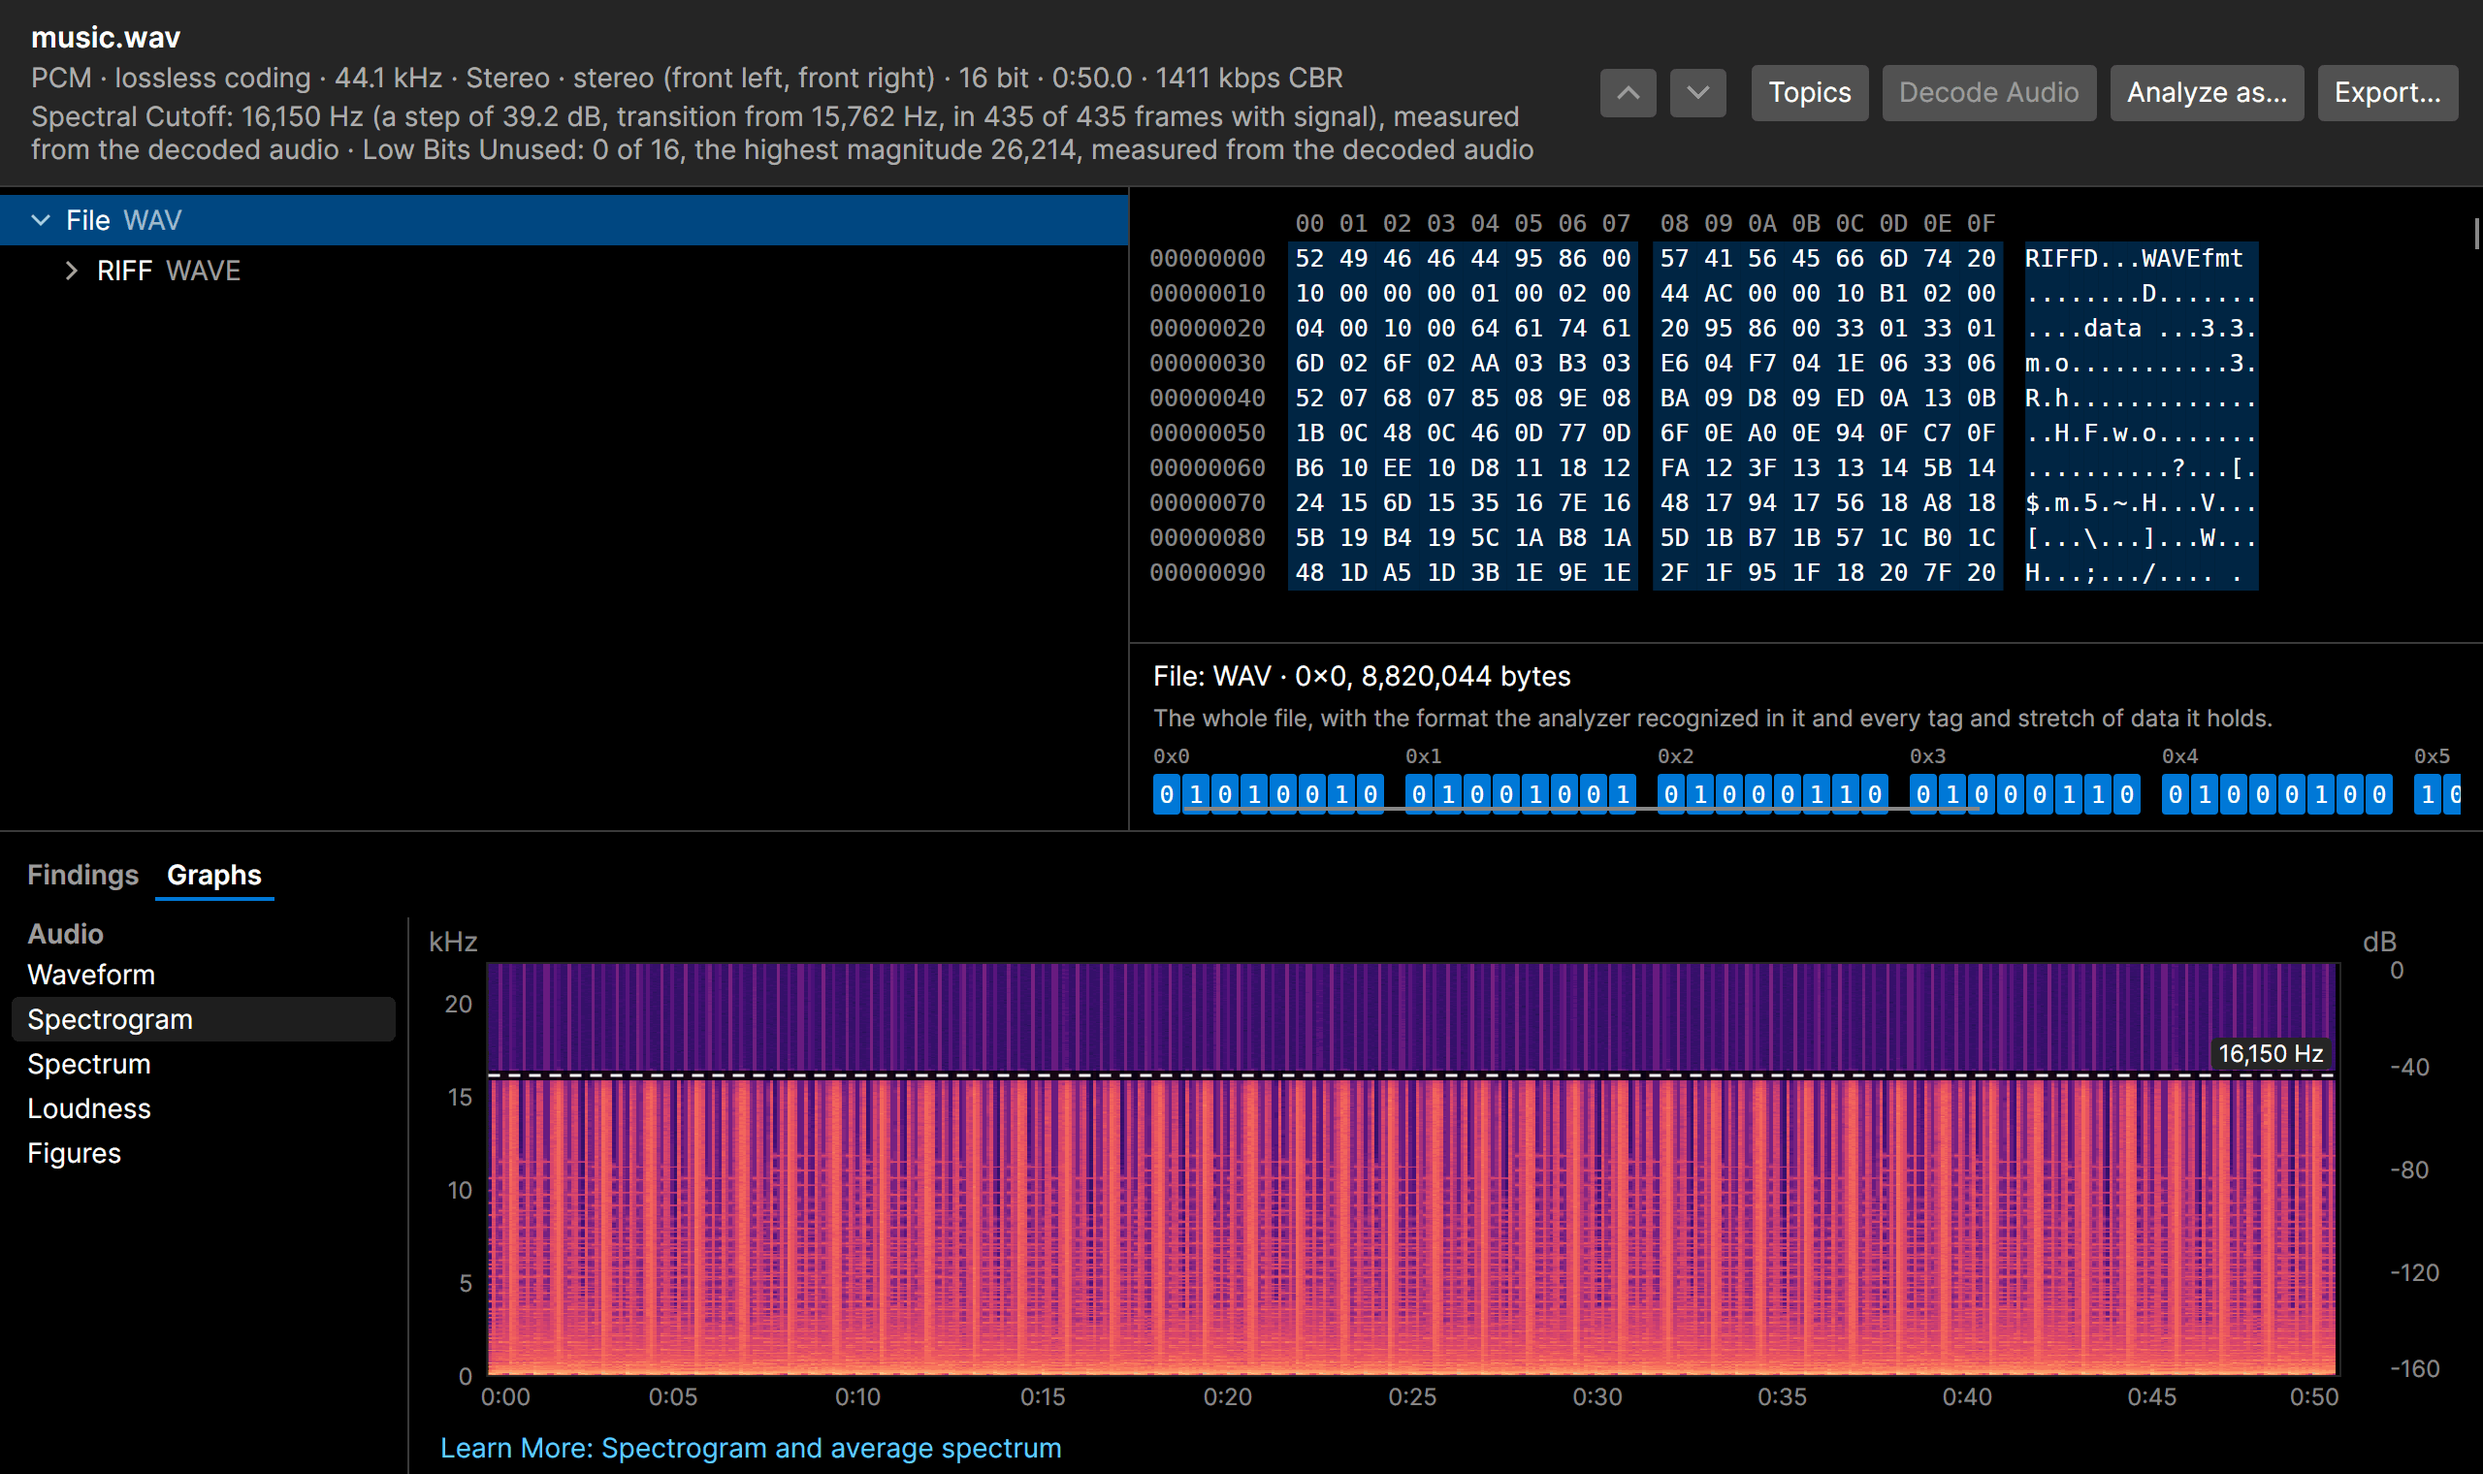
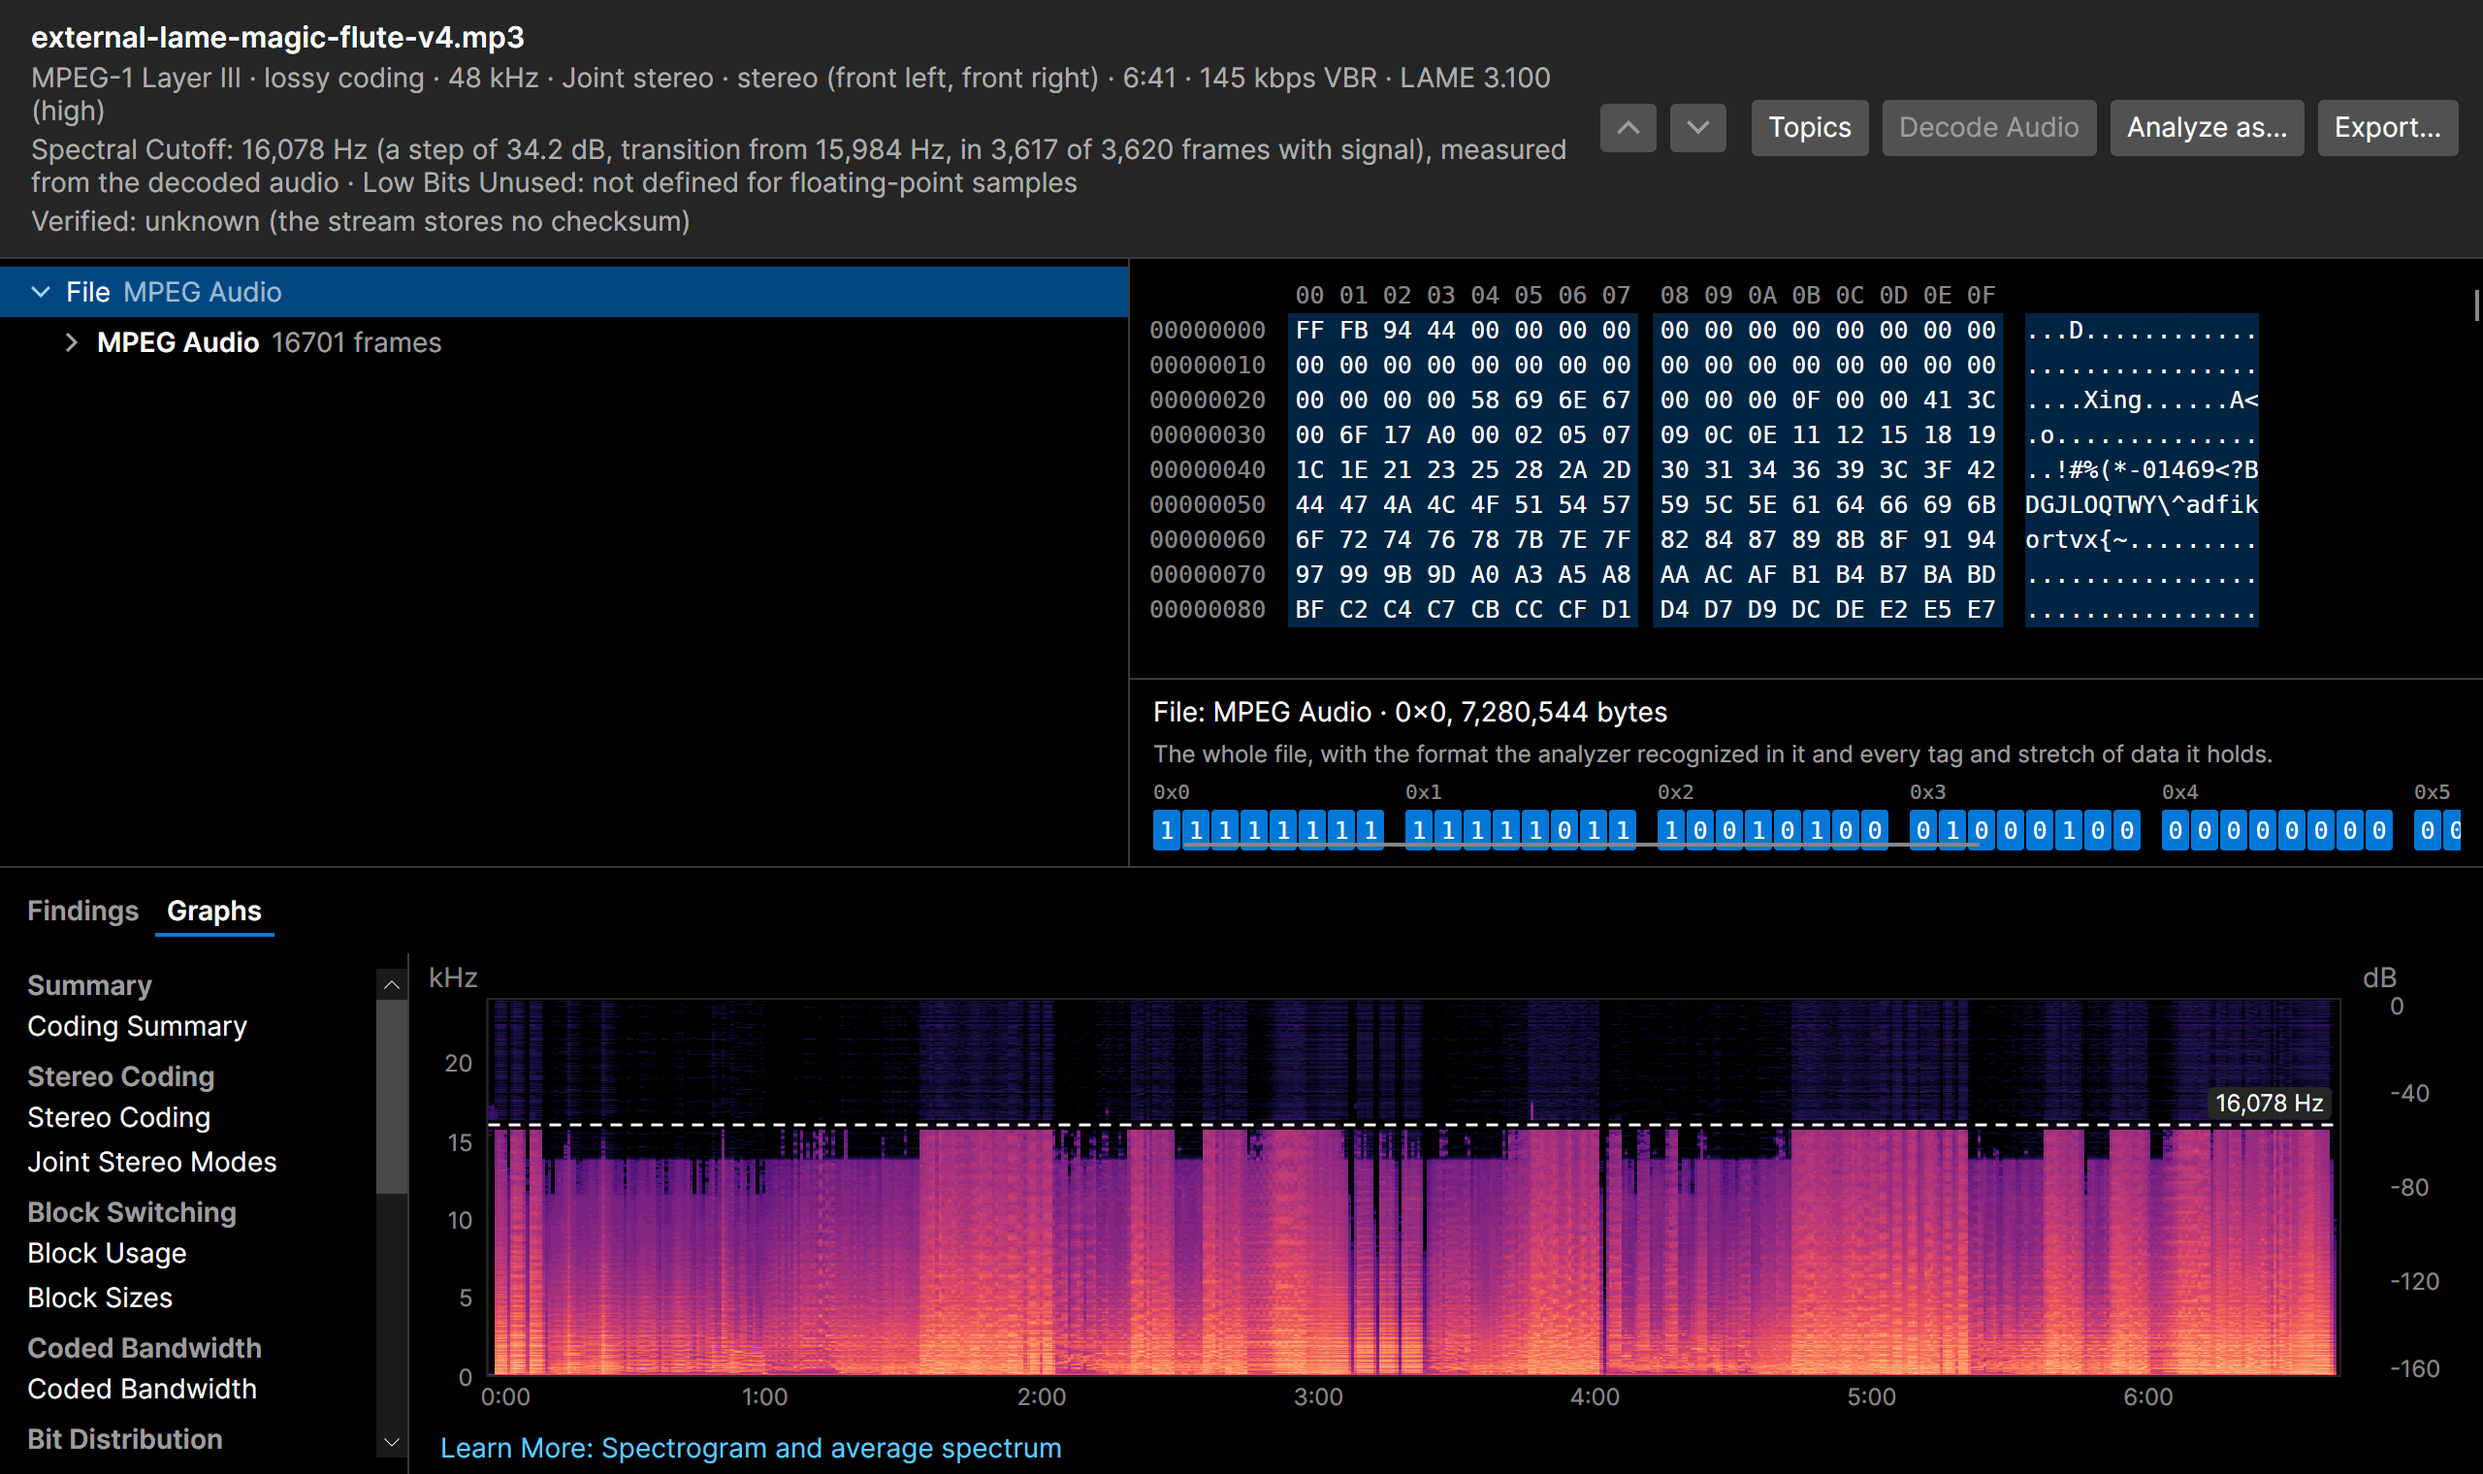
Re-render README screenshots from the Magic Flute fixture; Frame Map of its bitrate
Claude-Session: https://claude.ai/code/session_01NFnoiwUtAzMrjCXYBDYH3c

diff --git a/tests/Encspect.Gui.Tests/ReadmeScreenshotTests.cs b/tests/Encspect.Gui.Tests/ReadmeScreenshotTests.cs
@@ -111,28 +111,19 @@ public class ReadmeScreenshotTests
         window.Close();
     }
 
-    // Sixty seconds of the block switching of a joint stereo file with its LAME tag, which is the same two seconds thirty times.
+    // The bitrate of a whole recording, Mozart's Magic Flute overture (the music folder's fixture), at one square per frame. Its block types hardly change (99.8% long blocks), its bitrate follows the music.
     private static void FrameMap(string variant)
     {
-        using var folder = new TempFolder();
-        byte[] one = File.ReadAllBytes(Fixtures.Mpeg("external-lame3101-vbr.mp3"));
-        using (FileStream output = File.Create(folder["minute.mp3"]))
-        {
-            for (int copy = 0; copy < 30; copy++)
-            {
-                output.Write(one);
-            }
-        }
-
-        DetailWindow window = Open(folder["minute.mp3"], decode: false, 760);
-        AudioPanelTests.Choose(window, "Block Usage", GraphForm.Map);
+        DetailWindow window = Open(MagicFlute, decode: false, 760);
+        AudioPanelTests.Choose(window, "Bitrate", GraphForm.Map);
         var map = (FrameMapGraph)window.Graph.Graph!;
-        Assert.True(map.Count > 2000);
-        int shortFrame = Enumerable.Range(map.Count / 2, map.Count / 2).First(s => Enumerable.Range(0, 4).Any(v => map.CategorySeries![map.UnitOf(s), v] == 2));
-        FitTree(window, () => window.Model.SelectFrameAt(map.OffsetOf(shortFrame)));
+        Assert.True(map.Count > 10000);
+        FitTree(window, () => window.Model.SelectFrameAt(map.OffsetOf(map.Count * 3 / 5)));
         Save(window, $"readme-frame-map-{variant}.png");
         window.Close();
     }
+
+    private static string MagicFlute => Fixtures.Mpeg("music/external-lame-magic-flute-v4.mp3");
 
     // The tree pane is half the window's body; a height that holds a whole number of rows keeps a row from being cut at the pane's edge.
     private static void FitTree(DetailWindow window, Action select)
@@ -161,10 +152,7 @@ public class ReadmeScreenshotTests
 
     private static void Audio(string variant)
     {
-        using var folder = new TempFolder();
-        // A stream of more than 47 seconds has merged columns, so its spectrogram has no strip of columns without data at the end.
-        File.WriteAllBytes(folder["music.wav"], MusicWav.Build(Environment.GetEnvironmentVariable("ENCSPECT_SCREENSHOTS") is { Length: > 0 } ? 50 : 6));
-        DetailWindow window = Open(folder["music.wav"], decode: true, 760);
+        DetailWindow window = Open(MagicFlute, decode: true, 760);
         var spectrogram = (SpectrogramGraph)window.Graph.Graph!;
         Assert.NotNull(spectrogram.Cutoff);
         Save(window, $"readme-spectrogram-{variant}.png");

diff --git a/docs/development.md b/docs/development.md
@@ -15,9 +15,15 @@ The rules every change follows are in [CLAUDE.md](../CLAUDE.md); the architectur
   - `Formats/<Format>/` and `Tags/<Tag>/`: the tests of one parser, named like its `src/Encspect.Formats.*` or `src/Encspect.Tags.*` project; `Tags/` holds the tests across tags.
   - `Support/`: the shared fixtures access, builders and helpers.
   - `RepositoryRootTests` holds the tracked entries of the repository root to a list, so a stray folder fails the build; a new entry there is a decision made in that file.
-- `tests/fixtures`: one folder per format (`aac`, `mpeg-audio`, `wav`, ...), with the topic folders inside it (`mpeg-audio/layer2`, `mpeg-audio/layer3`, `mpeg-audio/vbr`, `mpeg-audio/stats`, `aac/adts`, `aac/apple`, `tags/collisions`). `measurement` and `fuzz` are the folders that cover several formats.
+- `tests/fixtures`: one folder per format (`aac`, `mpeg-audio`, `wav`, ...), with the topic folders inside it (`mpeg-audio/layer2`, `mpeg-audio/layer3`, `mpeg-audio/vbr`, `mpeg-audio/stats`, `mpeg-audio/music`, `aac/adts`, `aac/apple`, `tags/collisions`). `measurement` and `fuzz` are the folders that cover several formats.
 - `tests/Encspect.Gui.Tests`: the GUI, on Avalonia's headless platform without a display. These run on xUnit v3, which the headless test support needs. Set `ENCSPECT_SCREENSHOTS` to an absolute folder (a relative one resolves against the test host's directory under `bin`) to have them save screenshots of both windows and of the graphs, in light and dark mode, and of each view of the category charts. Each PNG is encoded with a 60-second bound and appears under its name only when complete, so a stalled save fails the test naming the file instead of hanging the run and leaving an empty PNG. MPEG audio produces category series; the tests for the chart's cases that it does not (AAC's window sequences, a series of many categories) run on a parser that wraps the MPEG one and adds test-only category series (`CategoryTestData`).
-- **README images:** `ReadmeScreenshotTests` renders the six images of the README's Screenshots section in light and dark mode at a scale of 2: the main window on a staged home folder (the `roots` of `MainViewModel`), the detail window of `mpeg-audio/external-blade080-stereo.mp3`, the Frame Map of `mpeg-audio/external-lame3101-vbr.mp3` (LAME 3.101 variable bitrate, joint stereo, with its LAME tag, 2 seconds) repeated thirty times, the Audio panels of a 50-second WAV it synthesizes (set `ENCSPECT_SCREENSHOTS`; otherwise 6 seconds) and the Coding Summary. Run it with `ENCSPECT_SCREENSHOTS` set to an absolute folder, copy the `readme-*.png` files from there to `docs/images/` and re-save each with Pillow (`optimize=True`; `quantize(256, method=FASTOCTREE, dither=NONE)` for those over about 380 KB) to keep it under about 400 KB. Nothing compares the committed images with the code: re-render them when a GUI or decoder change shows in a captured view, and before every release.
+- **README images:** `ReadmeScreenshotTests` renders the six images of the README's Screenshots section in light and dark mode at a scale of 2: the main window on a staged home folder (the `roots` of `MainViewModel`), the detail window of `mpeg-audio/external-blade080-stereo.mp3`, the Frame Map of its bitrate (its block types hardly change: 99.8% long blocks) and the Audio panels (spectrogram and waveform, from its decode) of `mpeg-audio/music/external-lame-magic-flute-v4.mp3` (below) and the Coding Summary of `mpeg-audio/external-lame-joint-music.mp3`. Run it with `ENCSPECT_SCREENSHOTS` set to an absolute folder, copy the `readme-*.png` files from there to `docs/images/` and re-save each with Pillow (`optimize=True`; `quantize(256, method=FASTOCTREE, dither=NONE)` for those over about 380 KB) to keep it under about 400 KB. Nothing compares the committed images with the code: re-render them when a GUI or decoder change shows in a captured view, and before every release.
+- **The music fixture** (`tests/fixtures/mpeg-audio/music/external-lame-magic-flute-v4.mp3`, 7.3 MB, 400.8 s, 48 kHz) is a real recording, for the README's and website's screenshots, which show how a file with a lot of variety reads:
[1 lines of base64/hex data omitted]
+  - **How it is made:** `make_external_mpeg_fixtures.py` through `musopen_tool.py`, which pins the FLAC by SHA-256 (`downloads.py`, cache only, never the working tree; `check_sources.py` checks its address) and converts it to 16-bit PCM with ffmpeg without dither. LAME 3.100 `-V 4 -m j` encodes the whole recording and writes its tag.
+  - **Goldens:** the manifest leaves out the per-frame `minimp3_side_info` (megabytes for a recording of minutes; the findings derived from it stay) and names `golden_hides: ["frames"]` for the report golden; the decode and measure goldens are as for every other fixture.
+  - **Damaged input:** `CorruptFiles.NotMutated` lists `mpeg-audio/music/`: the smaller LAME fixtures cover the same coding under damage.
+  - **The Audio panels** of the screenshots come from this file's decode, not a synthesized WAV: a real recording has the variance (loud and quiet passages, sharp attacks, LAME's lowpass in the spectrogram) a tone mix lacks.
 - **GUI backends on Linux:** CI runs the published GUI's `--self-check` under a headless Weston (`weston --backend=headless --renderer=pixman --socket=...`) and under `xvfb-run`, and checks the `Windowing backend:` line. It covers X11 as the default with both displays present, Wayland only with `ENCSPECT_GUI_BACKEND=wayland`, a compositor alone not starting Wayland, and a forced backend without its display exiting with code 1.
   - Locally: `apt-get install weston xvfb`, publish the GUI for your RID, then run the step from `.github/workflows/ci.yml`.
   - The step does not run as written: replace `${{ matrix.rid }}` with the RID (`linux-x64`) and export `RUNNER_TEMP` as a short absolute path such as `/tmp/ci`, created beforehand. Unset, `RUNNER_TEMP` makes the socket directory `/runtime`; a long one exceeds the 108-byte limit of a Unix socket path.
@@ -709,7 +715,7 @@ Every format has three kinds of fixture:
 | Format | Fixtures | Scripts | Checked against |
 |---|---|---|---|
 | Tags | `tests/fixtures/tags` | `make_tag_fixtures.py`; `make_external_tag_fixtures.py` (mutagen, ffmpeg) | TagLib# (`TagLibCrossCheckTests`); MediaInfo where it finds the audio (`crosscheck_mpeg_fixtures.py`) |
-| MPEG audio | `tests/fixtures/mpeg-audio`, `mpeg-audio/layer2`, `mpeg-audio/layer3`, `mpeg-audio/vbr`, `mpeg-audio/stats` | `make_mpeg_fixtures.py`, `make_layer2_fixtures.py`, `make_layer3_fixtures.py`, `make_vbr_fixtures.py`, `make_stats_fixtures.py`; `make_external_mpeg_fixtures.py` | ffprobe, madplay, mpg123, minimp3, mctoolamed, mp3guessenc, EncSpot, MediaInfo (`crosscheck_mpeg_fixtures.py`) |
+| MPEG audio | `tests/fixtures/mpeg-audio`, `mpeg-audio/layer2`, `mpeg-audio/layer3`, `mpeg-audio/vbr`, `mpeg-audio/stats`, `mpeg-audio/music` | `make_mpeg_fixtures.py`, `make_layer2_fixtures.py`, `make_layer3_fixtures.py`, `make_vbr_fixtures.py`, `make_stats_fixtures.py`; `make_external_mpeg_fixtures.py` | ffprobe, madplay, mpg123, minimp3, mctoolamed, mp3guessenc, EncSpot, MediaInfo (`crosscheck_mpeg_fixtures.py`) |
 | MP4 and AAC | `tests/fixtures/mp4`, `aac`, `aac/adts`, `aac/apple` | `make_mp4_fixtures.py`, `aac_block_fixtures.py`, `make_protection_fixtures.py` (protected tracks, below); `make_external_aac_fixtures.py`, `make_external_protection_fixtures.py` (ffmpeg's and MP4Box's encryption), `make_external_mp4_fixtures.py` (FLAC, Dolby TrueHD and PCM as ffmpeg's muxers write them), `make_external_mpeg_in_mp4_fixtures.py` (MPEG audio in several stretches); `import_macos_aac_fixtures.py` (Apple's encoder, below) | ffprobe, MP4Box, faad, a tracing faad2 build, ffmpeg decoding, MediaInfo (`crosscheck_mp4_fixtures.py`); `check_aac_tables.py` for the Huffman and band tables; TagLib# for iTunes metadata |
 | Ogg, Speex, Vorbis, Opus | `tests/fixtures/ogg` | `make_ogg_fixtures.py`, `make_vorbis_opus_fixtures.py`; `make_external_ogg_fixtures.py`, `make_external_vorbis_opus_fixtures.py` | oggz, ogginfo, vorbiscomment, opusinfo, ffprobe, speexdec, oggdec, opusdec, MediaInfo (`crosscheck_ogg_fixtures.py`); the Speex decoder's PCM against libspeex's fixed-point build (`crosscheck_speex_pcm.py`) |
 | Musepack | `tests/fixtures/musepack` | `make_musepack_fixtures.py`; `make_external_musepack_fixtures.py` | mpcdec, ffprobe, libmpcdec per frame, libmpcdec 1.2.6 per SV4 to SV6 frame (and the Portable Musepack decoder, its C++ ancestor), mppdec under Wine, MediaInfo (`crosscheck_musepack_fixtures.py`); the decoder's PCM against libmpcdec and FFmpeg (`crosscheck_musepack_pcm.py`) |
